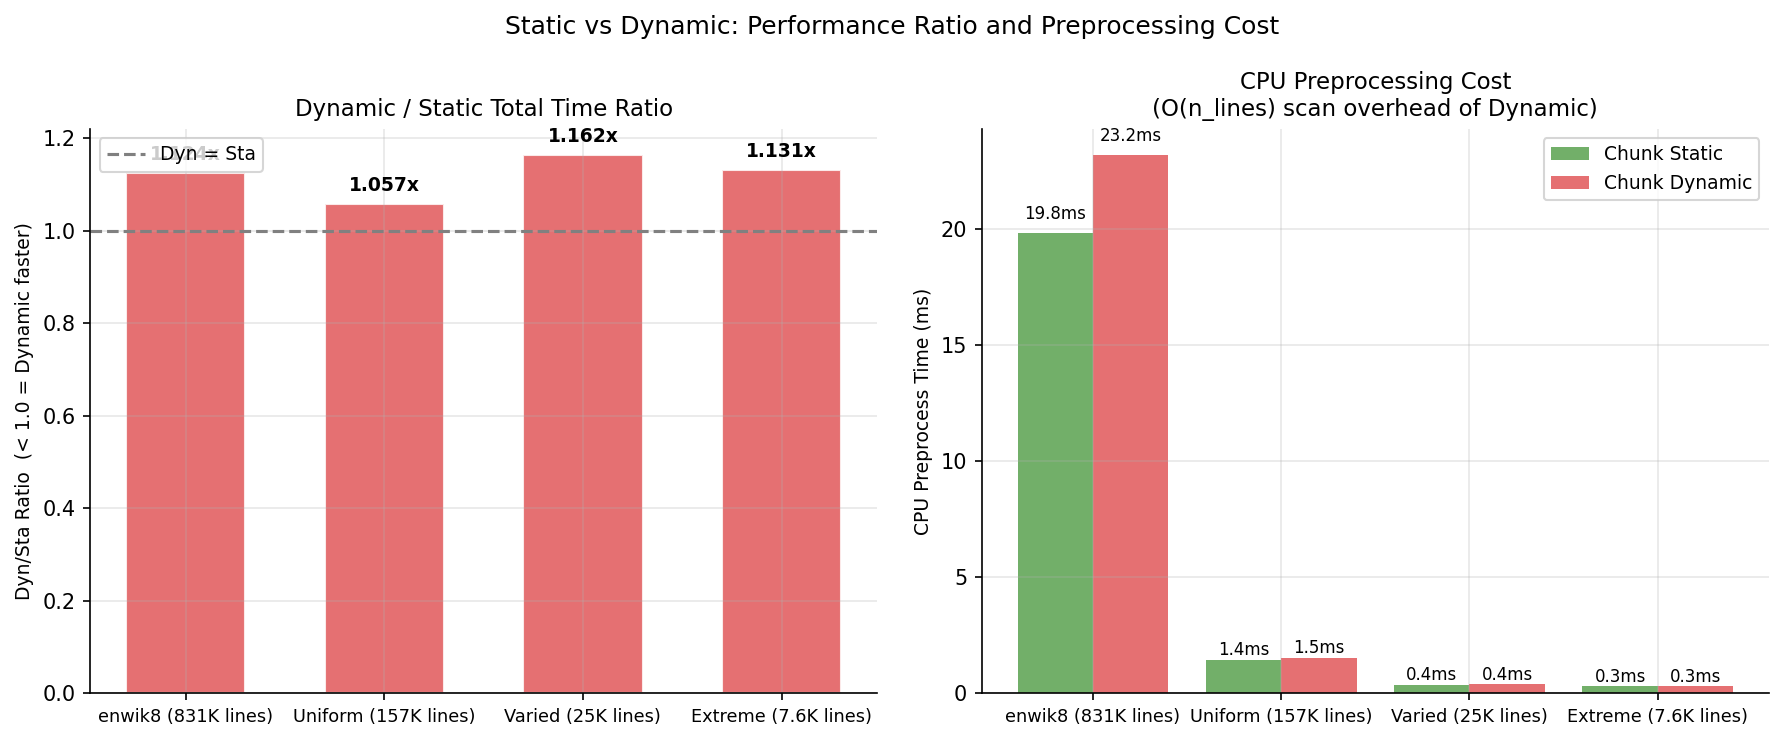
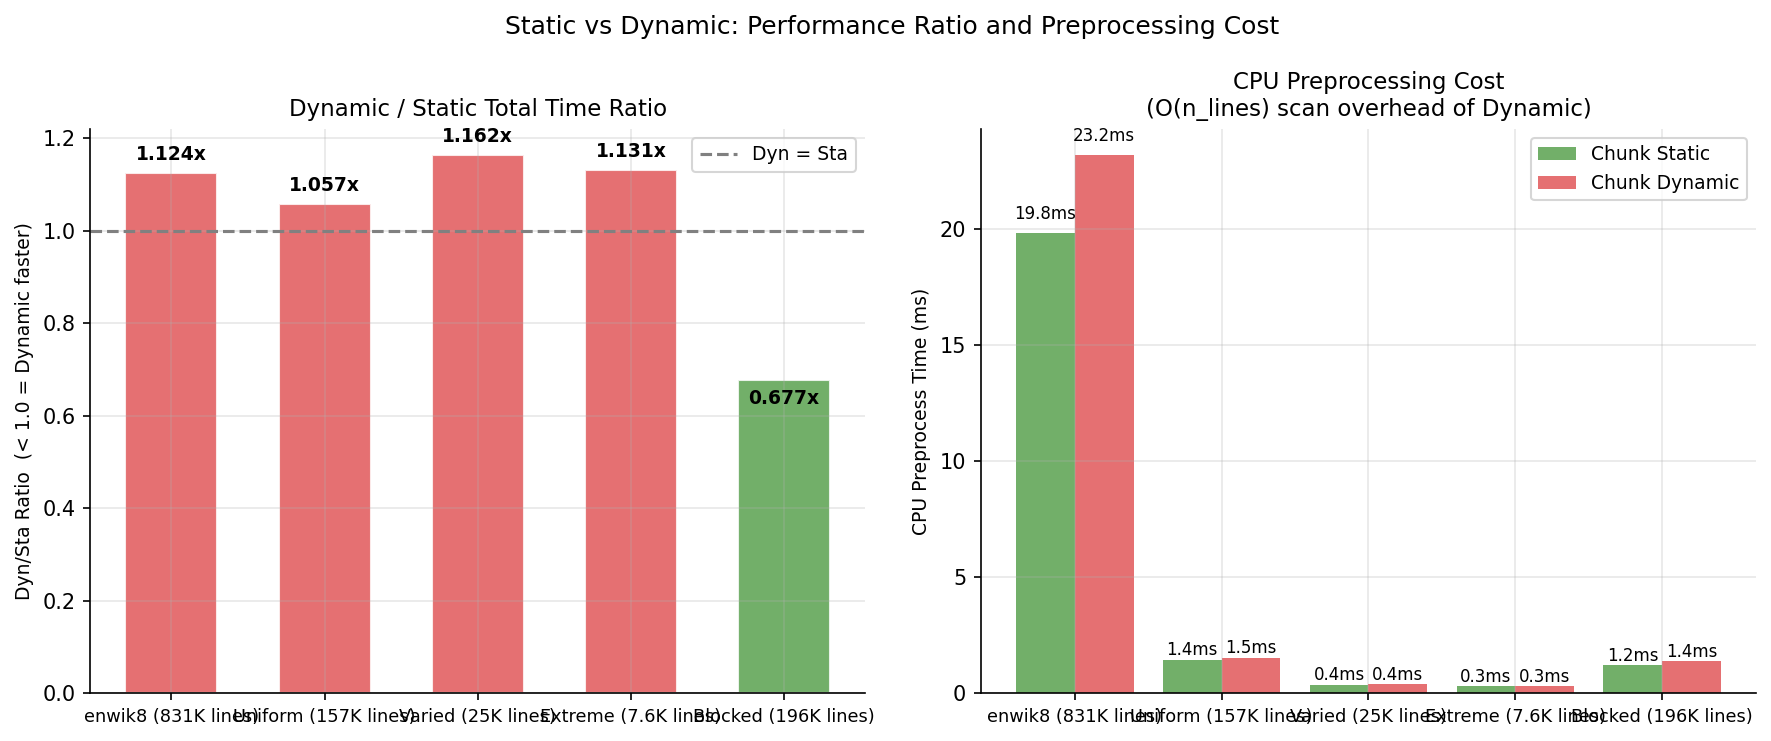
sprint(001): 追加実験D ブロック型データで Dynamic の優位性を確認
blocked.txt: 前半(短行189K行/9文字平均) + 後半(長行6K行/779文字平均)

結果(3回平均):
  GPU Line:          12.89ms
  Chunk Static:      19.15ms
  Chunk Dynamic:     12.97ms  Dyn/Sta=0.677x (Dynamic 32%速い)

知見: Dynamic の優位性は SD ではなく行長の空間的局在性(ブロック性)が決め手。
  - 短/長が混在(Varied/Extreme): Static の方が速い(1.13x~1.16x)
  - 短/長がブロック連続(Blocked): Dynamic の方が速い(0.677x)

グラフ5データセット版に更新済み。

diff --git a/sprints/001/plot_results.py b/sprints/001/plot_results.py
@@ -48,6 +48,7 @@ DATASETS = [
     ("Uniform\n(157K lines)", "results/sprint001_redo_uniform",      8.6  ),
     ("Varied\n(25K lines)",   "results/run_20260807_11_01_47",       434.1),
     ("Extreme\n(7.6K lines)", "results/sprint001_redo_extreme2",     1355.5),
+    ("Blocked\n(196K lines)", "results/sprint001_redo_blocked",      146.2),
 ]
 
 METHODS   = ['gpu_line', 'gpu_chunk', 'gpu_chunk_dynamic']
@@ -57,7 +58,7 @@ COLORS    = ['#4e79a7', '#59a14f', '#e15759']
 # ═══════════════════════════════════════════════════════════════
 # Fig 1: Total execution time — all datasets × 3 methods
 # ═══════════════════════════════════════════════════════════════
-fig, axes = plt.subplots(1, 4, figsize=(16, 5))
+fig, axes = plt.subplots(1, 5, figsize=(20, 5))
 fig.suptitle("Total Execution Time by Method and Dataset\n(max text size per dataset, avg of 30 patterns)",
              fontsize=12, y=1.01)
 
@@ -71,7 +72,7 @@ for ax, (label, base, sd) in zip(axes, DATASETS):
     bars = ax.bar(x, totals, 0.6, color=COLORS, alpha=0.85, edgecolor='white')
     ax.set_xticks(x)
     ax.set_xticklabels(MLABELS, fontsize=8, rotation=15, ha='right')
-    ax.set_title(label, fontsize=10)
+    ax.set_title(label, fontsize=9)
     ax.set_ylabel("Time (s)" if ax == axes[0] else "", fontsize=9)
     for bar, val in zip(bars, totals):
         ax.text(bar.get_x() + bar.get_width()/2, bar.get_height() + max(totals)*0.01,
@@ -139,7 +140,7 @@ plt.close()
 # ═══════════════════════════════════════════════════════════════
 # Fig 3: GPU execution time breakdown (preprocess vs gpu exec)
 # ═══════════════════════════════════════════════════════════════
-fig, axes = plt.subplots(1, 4, figsize=(16, 5))
+fig, axes = plt.subplots(1, 5, figsize=(20, 5))
 fig.suptitle("Execution Time Breakdown: CPU Preprocess vs GPU Exec\n(Static vs Dynamic per dataset)",
              fontsize=12, y=1.01)
 
@@ -176,9 +177,9 @@ plt.close()
 # ═══════════════════════════════════════════════════════════════
 fig, ax = plt.subplots(figsize=(7, 5))
 
-line_counts = [831543, 157538, 25260, 7632]  # approximate n_lines per dataset
-dataset_labels_sc = ['enwik8\n(831K)', 'Uniform\n(157K)', 'Varied\n(25K)', 'Extreme\n(7.6K)']
-point_colors = ['#4e79a7', '#59a14f', '#f28e2b', '#e15759']
+line_counts = [831543, 157538, 25260, 7632, 196015]  # approximate n_lines per dataset
+dataset_labels_sc = ['enwik8\n(831K)', 'Uniform\n(157K)', 'Varied\n(25K)', 'Extreme\n(7.6K)', 'Blocked\n(196K)']
+point_colors = ['#4e79a7', '#59a14f', '#f28e2b', '#e15759', '#b07aa1']
 
 for lc, ratio, lbl, col in zip(line_counts, dyn_sta_ratios, dataset_labels_sc, point_colors):
     ax.scatter(lc, ratio, s=140, color=col, zorder=5, edgecolors='white', linewidth=1.5)

diff --git a/sprints/001/results.md b/sprints/001/results.md
@@ -186,3 +186,60 @@ CPU前処理コストについて:
 - 少行データ（7.6K〜157K行）: Static 0.3〜1.4ms / Dynamic 0.3〜1.5ms  
   → ほぼ同等（差 < 0.1ms）
 
+---
+
+## 追加実験 D: ブロック型データ（前半: 短行 / 後半: 長行）
+
+### データセット: `blocked.txt`
+
+`blocked.txt`: 短行（1〜15文字）を前半にまとめ、長行（500文字以上）を後半に配置
+
+| 項目 | 値 |
+|---|---|
+| 行数 | 196,015 行 |
+| 前半（短行ブロック） | 189,593 行（平均 9.1 文字）|
+| 後半（長行ブロック） | 6,422 行（平均 778.6 文字）|
+| **標準偏差** | **146.2** |
+| 合計文字数 | 6,720,710 文字 |
+
+### 仮説
+
+行長のばらつきが **空間的に局在化**している場合（ブロック型）、  
+Static の「連続行8行ずつ」割り当てでは前半チャンク（短行のみ）と後半チャンク（長行のみ）の  
+文字数が最大 85 倍以上異なり、GPU 上でワープダイバージェンスが生じる。  
+Dynamic の文字数均等化により、この不均衡が解消されるはずである。
+
+### 結果（3回平均）
+
+| 手法 | 合計(ms) | CPU前処理(ms) | GPU実行(ms) | Dyn/Sta比 |
+|---|---|---|---|---|
+| GPU Line | 12.89 | 1.462 | 11.41 | — |
+| GPU Chunk Static | 19.15 | 1.395 | 17.74 | 1.000 |
+| **GPU Chunk Dynamic** | **12.97** | 1.504 | 11.44 | **0.677x（Dynamic が 32% 速い）** |
+
+### 考察
+
+**仮説を確認。** ブロック型データでは Dynamic が Static より **32% 速い（Dyn/Sta=0.677x）**。
+
+- Static: 前半チャンクは ~73 chars、後半チャンクは ~6,200 chars → 最大 **85倍**の不均衡
+- Dynamic: 文字数均等化によりすべてのチャンクが ~274 chars → GPU 上でワープ実行時間がそろう
+
+### 全データセット最終まとめ
+
+| データセット | 行長分布パターン | SD | Dyn/Sta比 | Dynamic の優位性 |
+|---|---|---|---|---|
+| enwik8 | 自然分布（均一寄り）| 407 | 1.124x | なし |
+| Uniform | 均一 | 8.6 | 1.057x | なし |
+| Varied | 短/長 **交互**分散 | 434 | 1.162x | なし |
+| Extreme | 超短/超長 **交互**分散 | 1355 | 1.131x | なし |
+| **Blocked** | **短/長 ブロック連続** | 146 | **0.677x** | **あり（+32%）** |
+
+**重要な知見:**  
+Dynamic の有利・不利を決めるのは **SD（標準偏差）ではなく、行長の空間的局在性（ブロック性）**。  
+短行と長行が混在していれば Static でも均等化されるが、  
+**連続ブロックとして出現する場合のみ Dynamic が有効**。
+
+実用場面としては:
+- ログファイル（ヘッダー行が短く、本文が長い）
+- コードファイル（コメント行が短く、長い関数定義が連続）
+- Markdown（タイトル行が短く、本文段落が長い）
